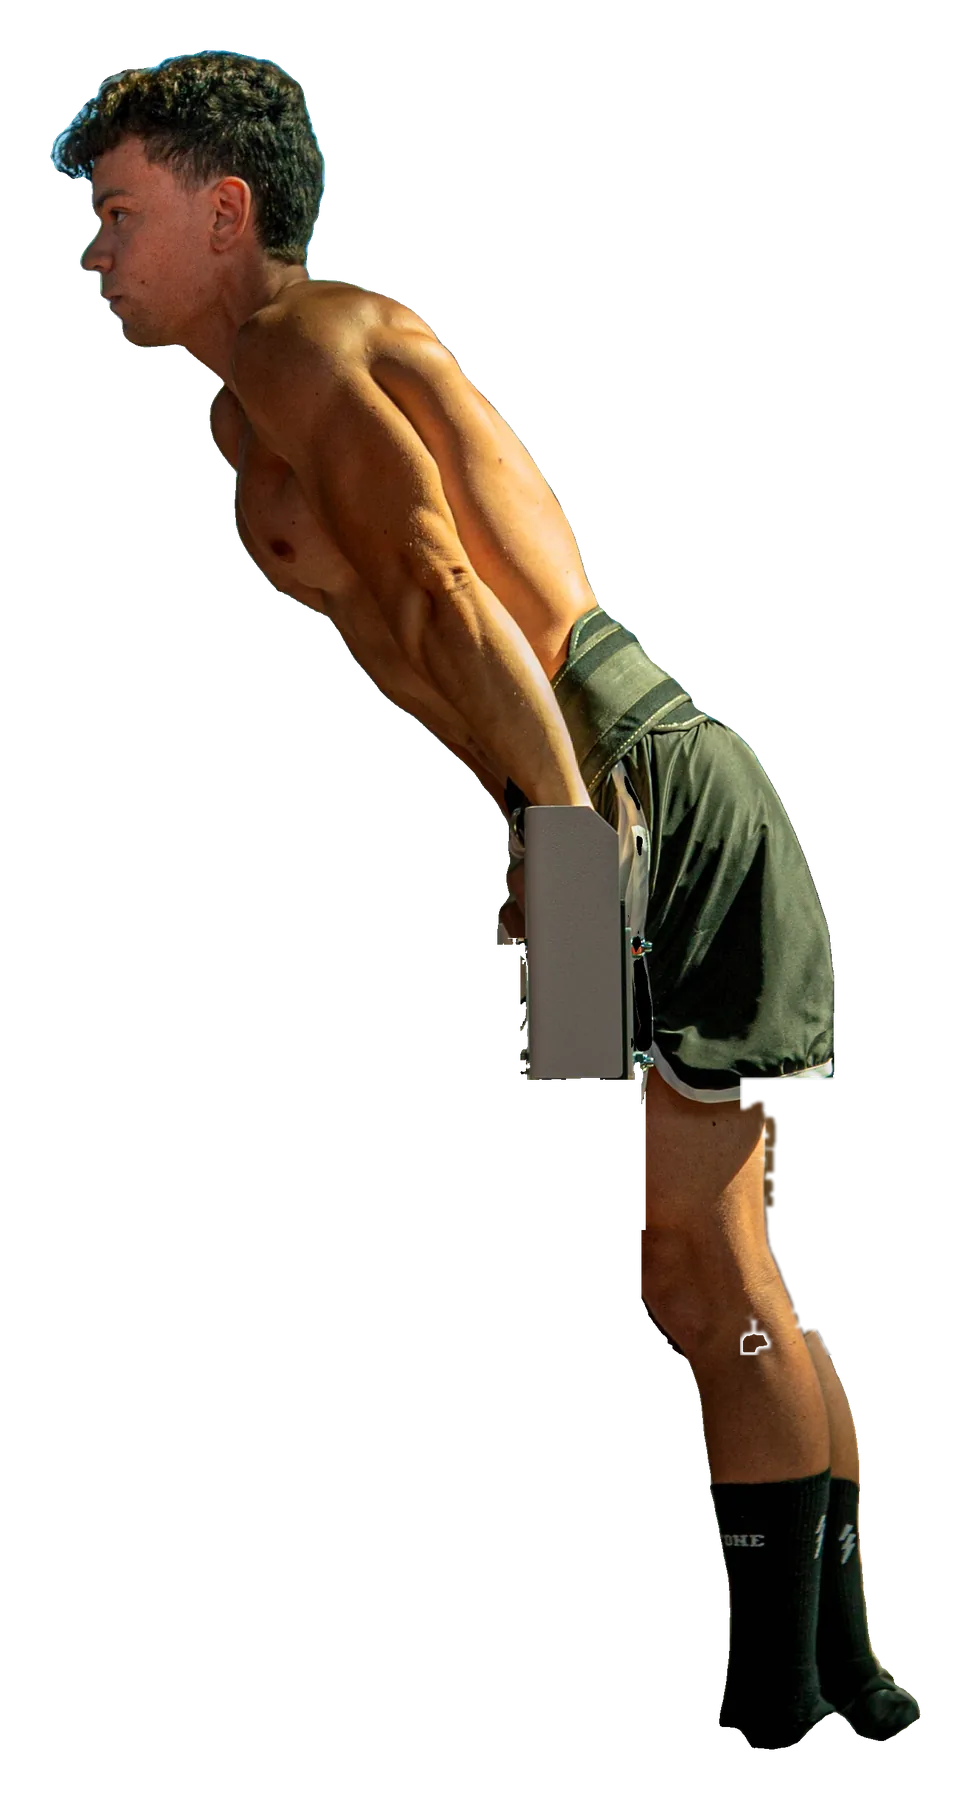
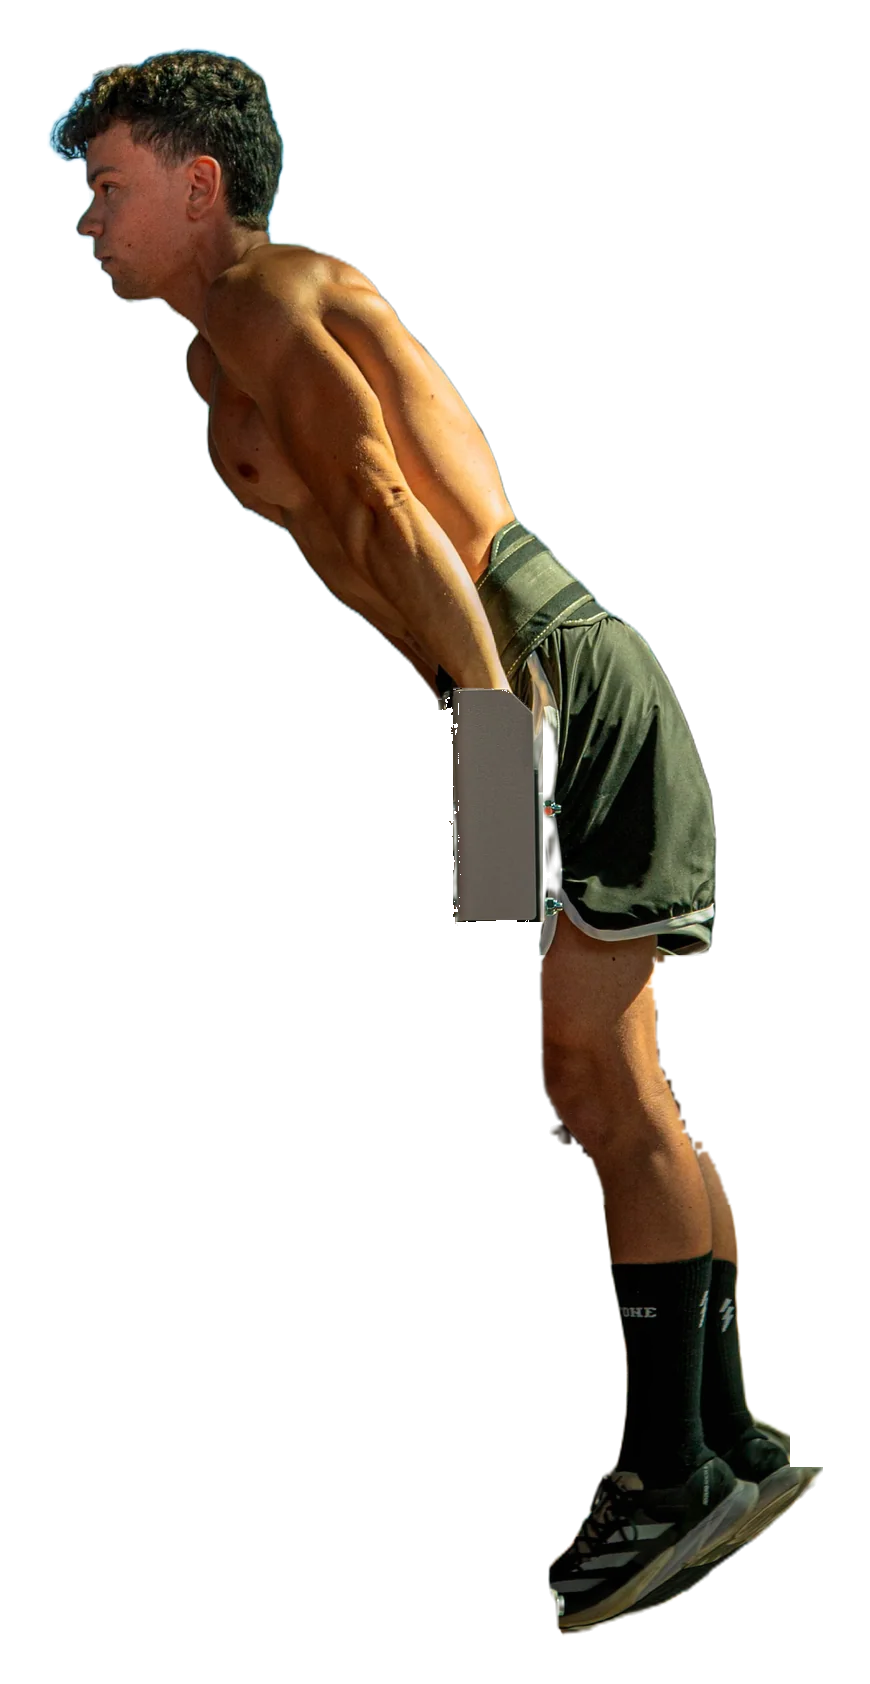
about: cleaner cut-outs, figure placement
- cut-outs redone with BiRefNet (ISNet only for the hands inside the
  bracket): no confetti or halo on the graduation shot, shoes back on the
  calisthenics one; strap, plate and bar removed (cutout.py, CPU provider —
  CoreML stalls on BiRefNet)
- first panel: the narrow graduation figure centred in its column instead
  of pinned to the far edge
- calisthenics bottom fade 0.3 → 0.12 now that the feet are there

Changed region(s): [[0.031, 0.0309, 0.9621, 0.9881]]

diff --git a/src/app/globals.css b/src/app/globals.css
@@ -1699,6 +1699,12 @@ footer.foot a,
   max-width: 100%;
   aspect-ratio: var(--ar);
 }
+/* The graduation cut-out is a narrow standing figure: pinned to the column's
+   far edge it left a dead gap between it and the copy. Centred in its column
+   it answers the copy instead. */
+.about-panel:first-child .about-figure {
+  justify-self: center;
+}
 .about-panel--mirror .about-figure {
   justify-self: start;
 }

diff --git a/src/app/[locale]/(site)/about/page.tsx b/src/app/[locale]/(site)/about/page.tsx
@@ -152,7 +152,7 @@ export default async function About() {
               <AboutFigure
                 image={calisthenics}
                 alt={discipline.figureAlt}
-                bottom={0.3}
+                bottom={0.12}
               />
               <PanelCopy text={discipline} as="h2" id="about-discipline">
                 <div className="about-coaching rv" style={stagger(4)}>

diff --git a/reference/AboutPhotos/cutout.py b/reference/AboutPhotos/cutout.py
@@ -1,17 +1,24 @@
 """
 Cut the person out of the two /about reference photos and emit the web assets.
 
-    python reference/AboutPhotos/cutout.py [--model isnet-general-use] [--preview DIR]
+    python reference/AboutPhotos/cutout.py [--preview DIR] [--only NAME]
 
-Reads  Laurea.JPEG and Calisthenics.jpg from this folder, runs rembg
-(background removal, ONNX — first run downloads the model, ~170MB), trims the
-result to the silhouette's bounding box (with a little air around it), scales
-it to MAX_H tall and writes lossy WebP-with-alpha into src/assets/about/, which
-is what both the DOM <img> and the WebGL figure texture load (see
-src/components/about/AboutFigure.tsx). `--preview` also drops full-res PNGs
-somewhere for eyeballing the matte.
+Reads Laurea.JPEG and Calisthenics.jpg from this folder, runs rembg
+(background removal, ONNX — first run downloads the models: BiRefNet ~970MB,
+ISNet ~180MB), trims the result to the silhouette's bounding box (with a
+little air around it), scales it to MAX_H tall and writes lossy
+WebP-with-alpha into src/assets/about/, which is what both the DOM <img> and
+the WebGL figure texture load (see src/components/about/AboutFigure.tsx).
+`--preview` also drops full-res PNGs somewhere for eyeballing the matte.
 
-Deps (not part of the site): pip install rembg onnxruntime pillow
+BiRefNet is the matte: clean hair, no halo, no confetti, and it keeps the
+shoes on the calisthenics shot. It drops the hands there, though (they are
+inside the parallette's bracket), so that one window is taken from ISNet.
+
+Runs on the CPU provider: onnxruntime's CoreML provider stalls on BiRefNet
+on Apple silicon (the process sits idle at 0% forever).
+
+Deps (not part of the site): pip install rembg onnxruntime pillow scipy
 """
 
 from __future__ import annotations
@@ -21,7 +28,7 @@ import sys
 from pathlib import Path
 
 import numpy as np
-from PIL import Image
+from PIL import Image, ImageOps
 from rembg import new_session, remove
 from scipy import ndimage
 
@@ -31,30 +38,23 @@ OUT = HERE.parents[1] / "src" / "assets" / "about"
 # Output height in px. The figure is drawn at most ~85vh tall on a desktop at
 # DPR 1.5 (~1400px); 1800 keeps it crisp there while staying a few hundred KB.
 MAX_H = 1800
+# Working height: the sources are cut at this size (the Nikon frame is 5816
+# tall; the models infer at 1024 anyway). The hand-authored windows in
+# `clean_calisthenics` are in this space.
+WORK_H = 3000
 # Air around the silhouette, as a fraction of the bbox height, so the fade at
 # the feet and the blur of the orbs have room and nothing is shaved.
 PAD = 0.03
-WEBP_QUALITY = 82
+WEBP_QUALITY = 84
+
+MODEL = "birefnet-general"
+HANDS_MODEL = "isnet-general-use"
+PROVIDERS = ["CPUExecutionProvider"]
 
 SOURCES = {
     "laurea": "Laurea.JPEG",
     "calisthenics": "Calisthenics.jpg",
 }
-
-
-def largest_component(rgba: np.ndarray) -> np.ndarray:
-    """Keep only the biggest connected blob of the matte — the person. Drops
-    the stray fence post the model kept beside the graduation shot and any
-    speckle."""
-    a = rgba[..., 3]
-    lab, n = ndimage.label(a > 8, structure=np.ones((3, 3)))
-    if n <= 1:
-        return rgba
-    areas = ndimage.sum(np.ones_like(a), lab, index=range(1, n + 1))
-    keep = int(np.argmax(areas)) + 1
-    rgba = rgba.copy()
-    rgba[..., 3] = np.where(lab == keep, a, 0)
-    return rgba
 
 
 def rgb_to_hsv(rgb: np.ndarray) -> tuple[np.ndarray, np.ndarray, np.ndarray]:
@@ -73,97 +73,105 @@ def rgb_to_hsv(rgb: np.ndarray) -> tuple[np.ndarray, np.ndarray, np.ndarray]:
     return h * 60, s, v
 
 
-def clean_calisthenics(rgba: np.ndarray) -> np.ndarray:
-    """The general model keeps the rig the parallettes bolt to (the black post
-    under the white bracket, the red strap) and the plate behind the knee. Erase
-    them by hand: geometry for the post/strap, colour for the plate (dark olive
-    against sunlit skin). Coordinates were authored on the first-pass 730×1800
-    preview of this exact photo and scale with the crop, so they only hold for
-    Calisthenics.jpg — this is a one-off asset step, not a general tool."""
-    h, w = rgba.shape[:2]
-    fx, fy = w / 730, h / 1800
+def largest_component(a: np.ndarray) -> np.ndarray:
+    """Keep only the biggest connected blob of the matte — the person. Drops
+    stray confetti, the strap ends and any speckle."""
+    lab, n = ndimage.label(a > 8, structure=np.ones((3, 3)))
+    if n <= 1:
+        return a
+    areas = ndimage.sum(np.ones_like(a), lab, index=range(1, n + 1))
+    keep = int(np.argmax(areas)) + 1
+    return np.where(lab == keep, a, 0)
+
+
+def clean_laurea(rgb: np.ndarray, a: np.ndarray) -> np.ndarray:
+    """Confetti on the pavement touch the shoes, so they survive the
+    largest-blob pass: drop anything bright and strongly coloured around the
+    shoes. The navy hem and the blue glints on the leather are dark, so they
+    stay."""
+    h = a.shape[0]
+    y = np.arange(h)[:, None]
+    hue, sat, val = rgb_to_hsv(rgb)
+    bbox_bottom = np.nonzero((a > 8).any(1))[0].max()
+    shoes = y >= bbox_bottom - 0.09 * h
+    return np.where(shoes & (sat > 0.4) & (val > 0.5), 0, a)
+
+
+def clean_calisthenics(rgb: np.ndarray, a: np.ndarray, hands: np.ndarray) -> np.ndarray:
+    """Coordinates are authored on this photo at WORK_H and scale with it, so
+    they only hold for Calisthenics.jpg — a one-off asset step, not a tool."""
+    h, w = a.shape
+    f = h / WORK_H
     x = np.arange(w)[None, :]
     y = np.arange(h)[:, None]
-    rgba = rgba.copy()
-    a = rgba[..., 3]
-    # 1. the post under the bracket (and the strap loop on it), plus the strip
-    #    of post showing beside the bracket's left edge
-    a[(y >= 792 * fy) & (x < 477 * fx)] = 0
-    a[(y >= 695 * fy) & (y < 792 * fy) & (x < 390 * fx)] = 0
-    # 2. what is left of the red strap beside the bracket. Nothing else in that
-    #    window is saturated — the bracket is grey, the post black — so any
-    #    warm, saturated pixel there is strap (shadowed maroon included).
-    hue, sat, val = rgb_to_hsv(rgba[..., :3].astype(np.float32) / 255)
+    hue, sat, val = rgb_to_hsv(rgb)
+    a = a.astype(np.float32)
+
+    def win(x0, x1, y0, y1):
+        return (x >= x0 * f) & (x < x1 * f) & (y >= y0 * f) & (y < y1 * f)
+
+    # 1. The hands, inside the parallette's white bracket: BiRefNet drops
+    #    that block, ISNet keeps it (without the post under it — that starts
+    #    below this window). Left of the bracket's face only the fingers
+    #    belong (not the bolt, the post's edge); the red strap hanging off it
+    #    goes wherever it is.
     red = ((hue < 30) | (hue > 320)) & (sat > 0.28)
-    a[red & (y >= 690 * fy) & (y < 900 * fy) & (x < 480 * fx)] = 0
-    # 3. the plate behind the knee, to the right of the thigh's lit rim. Keep
-    #    only lit, warm skin there: everything else (the plate's dark olive
-    #    body, its lit rim, the mixed fringe) goes.
-    skin = (hue > 6) & (hue < 36) & (sat > 0.3) & (val > 0.3)
-    knee = (y >= 790 * fy) & (y < 990 * fy) & (x >= 548 * fx) & (x < 690 * fx)
-    a[~skin & knee] = 0
-    # The colour cut leaves a ragged edge and a few specks along the knee:
-    # open the matte there (drops the specks, smooths the cut) and feather it.
-    r = max(1, round(2 * fy))
+    grip = win(940, 1045, 1570, 1812)
+    a = np.where(grip & ~red, np.maximum(a, hands), a)
+    finger = (hue > 4) & (hue < 34) & (sat > 0.35)
+    a = np.where(win(900, 955, 1600, 1830) & ~finger, 0, a)
+    a = np.where(win(850, 1000, 1690, 2000) & red, 0, a)
+    # 2. The plate behind the knee. Skin there, lit or in shadow, is warm and
+    #    strongly saturated (hue < 34, sat > .45); the plate is olive-bronze,
+    #    duller (hue 40–55, sat < .55). Keep only skin, then open + feather
+    #    the colour cut so the calf's edge is smooth.
+    skin = (hue > 4) & (hue < 34) & (sat > 0.45)
+    knee = win(1040, 1250, 1845, 2095)
+    a = np.where(knee & ~skin, 0, a)
+    r = max(1, round(3 * f))
     opened = ndimage.binary_opening(a > 8, structure=np.ones((2 * r + 1, 2 * r + 1)))
-    a = np.where(knee & ~opened, 0, a).astype(np.float32)
-    soft = ndimage.gaussian_filter(a, sigma=1.2 * fy)
-    a = np.where(knee, soft, a)
-    # Small enclosed holes the colour test punched in the skin (a mole, a
-    # shadow) get filled; anything large is real negative space and stays.
-    solid = a > 8
-    filled = ndimage.binary_fill_holes(solid)
-    holes, n = ndimage.label(filled & ~solid)
-    if n:
-        sizes = ndimage.sum(np.ones_like(a), holes, index=range(1, n + 1))
-        small = np.isin(holes, [i + 1 for i, s in enumerate(sizes) if s < 900 * fx * fy])
-        a = np.where(small, 255, a)
-    rgba[..., 3] = np.clip(a, 0, 255).astype(np.uint8)
-    return rgba
+    a = np.where(knee & ~opened, 0, a)
+    a = np.where(knee, ndimage.gaussian_filter(a, sigma=1.2 * f), a)
+    # 3. The dip bar the toes rest against: a lit strip past the right toe.
+    a = np.where(win(1325, 99999, 2280, 2400), 0, a)
+    a = np.where(win(1292, 1325, 2280, 2357), 0, a)
+    return np.clip(a, 0, 255)
 
 
-def cutout(src: Path, session, *, preview: Path | None, name: str) -> Path:
-    img = Image.open(src)
+def cutout(src: Path, sessions, *, preview: Path | None, name: str) -> Path:
     # Honour the EXIF orientation before anything else (the iPhone shot is
     # stored rotated); rembg works on the pixels it is handed.
-    from PIL import ImageOps
-
-    img = ImageOps.exif_transpose(img).convert("RGB")
+    img = ImageOps.exif_transpose(Image.open(src)).convert("RGB")
     print(f"{name}: source {img.size[0]}x{img.size[1]}", file=sys.stderr)
+    if img.height > WORK_H:
+        img = img.resize((round(img.width * WORK_H / img.height), WORK_H), Image.LANCZOS)
 
-    out = remove(
-        img,
-        session=session,
-        # Trimap-based matting refines hair/leaf edges but needs pymatting and
-        # is slow at this size; the plain matte is clean enough on these.
-        alpha_matting=False,
-        post_process_mask=True,
-    ).convert("RGBA")
+    def matte(model: str) -> np.ndarray:
+        out = remove(img, session=sessions[model], post_process_mask=False)
+        return np.array(out.convert("RGBA"))[..., 3].astype(np.float32)
 
-    def crop_to_matte(img: Image.Image) -> Image.Image:
-        bbox = img.getchannel("A").getbbox()
-        if not bbox:
-            raise SystemExit(f"{name}: no foreground found")
-        l, t, r, b = bbox
-        pad = int((b - t) * PAD)
-        l, t = max(0, l - pad), max(0, t - pad)
-        r, b = min(img.width, r + pad), min(img.height, b + pad)
-        return img.crop((l, t, r, b))
-
-    out = crop_to_matte(out)
-    print(f"{name}: raw bbox {out.size[0]}x{out.size[1]}", file=sys.stderr)
-
-    # Clean the matte at full resolution, then crop again to what survived.
-    arr = np.array(out)
+    rgb = np.array(img)
+    a = matte(MODEL)
+    hsv_in = rgb.astype(np.float32) / 255
     if name == "calisthenics":
-        arr = clean_calisthenics(arr)
-    arr = largest_component(arr)
-    out = crop_to_matte(Image.fromarray(arr, "RGBA"))
-    print(f"{name}: clean bbox {out.size[0]}x{out.size[1]}", file=sys.stderr)
+        a = clean_calisthenics(hsv_in, a, matte(HANDS_MODEL))
+    elif name == "laurea":
+        a = clean_laurea(hsv_in, a)
+    a = largest_component(a)
+
+    # The colour comes from the source itself, never from rembg's output
+    # (which blacks out whatever its own matte dropped — the hands window).
+    out = Image.fromarray(np.dstack([rgb, np.clip(a, 0, 255).astype(np.uint8)]))
+    bbox = out.getchannel("A").getbbox()
+    if not bbox:
+        raise SystemExit(f"{name}: no foreground found")
+    l, t, r, b = bbox
+    pad = int((b - t) * PAD)
+    out = out.crop((max(0, l - pad), max(0, t - pad), min(out.width, r + pad), min(out.height, b + pad)))
+    print(f"{name}: bbox {out.size[0]}x{out.size[1]}", file=sys.stderr)
 
     if out.height > MAX_H:
-        w = round(out.width * MAX_H / out.height)
-        out = out.resize((w, MAX_H), Image.LANCZOS)
+        out = out.resize((round(out.width * MAX_H / out.height), MAX_H), Image.LANCZOS)
 
     OUT.mkdir(parents=True, exist_ok=True)
     dst = OUT / f"{name}.webp"
@@ -186,16 +194,15 @@ def cutout(src: Path, session, *, preview: Path | None, name: str) -> Path:
 
 def main() -> None:
     ap = argparse.ArgumentParser()
-    ap.add_argument("--model", default="isnet-general-use")
     ap.add_argument("--preview", type=Path, default=None)
     ap.add_argument("--only", choices=list(SOURCES), default=None)
     args = ap.parse_args()
 
-    session = new_session(args.model)
-    for name, file in SOURCES.items():
-        if args.only and name != args.only:
-            continue
-        cutout(HERE / file, session, preview=args.preview, name=name)
+    names = [n for n in SOURCES if not args.only or n == args.only]
+    models = {MODEL} | ({HANDS_MODEL} if "calisthenics" in names else set())
+    sessions = {m: new_session(m, providers=PROVIDERS) for m in models}
+    for name in names:
+        cutout(HERE / SOURCES[name], sessions, preview=args.preview, name=name)
 
 
 if __name__ == "__main__":
